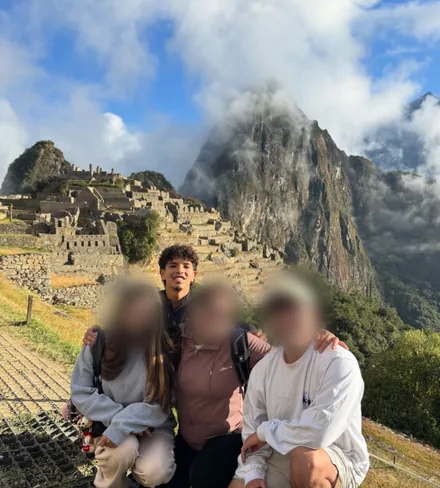
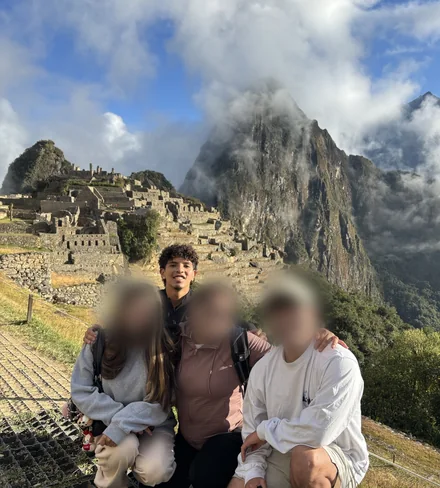
Intro photo and new intro palette

diff --git a/code/static/home.css b/code/static/home.css
@@ -3,7 +3,9 @@
   --font: -apple-system, BlinkMacSystemFont, "SF Pro Display", "SF Pro Text", "Helvetica Neue", Helvetica, Arial, sans-serif;
   --round: ui-rounded, "SF Pro Rounded", -apple-system, "Arial Rounded MT Bold", sans-serif;
   --mono: ui-monospace, "SF Mono", Menlo, Consolas, monospace;
-  --page-bg: #ffffff;
+  --page-bg: #f1f5fc;
+  --navy: #0b1b3a;
+  --cobalt: #1f4fd8;
   --ink: #000000;
   --ink-2: #5f6168;
   --maroon: #630031;
@@ -35,6 +37,12 @@ h1,h2,h3,p{margin:0}
 .topbar nav a:hover{opacity:1}
 
 /* Intro */
+.intro,.finale{--ink:var(--navy);--ink-2:#4b5a7a;color:var(--ink)}
+.intro{position:relative;overflow:hidden}
+.intro::before{content:"";position:absolute;inset:-20%;pointer-events:none;opacity:calc(1 - var(--p,0)*1.5);
+  background:radial-gradient(38% 42% at 78% 62%,rgba(31,79,216,.20),transparent 70%),radial-gradient(34% 38% at 12% 8%,rgba(80,170,255,.22),transparent 70%),radial-gradient(30% 30% at 55% 105%,rgba(255,170,120,.16),transparent 70%);
+  animation:drift 22s ease-in-out infinite alternate}
+@keyframes drift{to{transform:translate3d(3%,-2%,0) scale(1.06)}}
 .intro{min-height:100svh;display:grid;place-items:center;padding:120px max(20px,6vw) 80px}
 .intro-stage{max-width:1100px;width:100%;transform:scale(calc(1 - var(--p,0)*.08));opacity:calc(1 - var(--p,0)*1.4)}
 .intro-title{font-size:clamp(56px,9vw,132px);line-height:.98;letter-spacing:-.055em;font-weight:700}
@@ -42,7 +50,7 @@ h1,h2,h3,p{margin:0}
 .intro-title .ch{display:inline-block;transform:translate3d(0,calc(var(--lift,0)*-1px + var(--p,0)*var(--fy,0)*1px),0) rotate(calc(var(--p,0)*var(--fr,0)*1deg));transition:transform .5s var(--ease);will-change:transform}
 .js .intro-title .ch{animation:letter-in .9s var(--ease) both;animation-delay:calc(var(--i)*28ms + 120ms)}
 @keyframes letter-in{from{opacity:0;transform:translate3d(0,.6em,0) rotate(6deg)}to{opacity:1}}
-.intro-stage{position:relative}
+.intro-stage{position:relative;z-index:1}
 .me{position:absolute;right:0;bottom:44px;margin:0;width:clamp(210px,20vw,290px);padding:10px 10px 0;background:#fff;border-radius:6px;box-shadow:0 24px 50px -18px rgba(0,0,0,.35),0 0 0 1px rgba(0,0,0,.06);transform:rotate(3.5deg);transition:transform .5s var(--ease)}
 .me:hover{transform:rotate(1deg) scale(1.03)}
 .me-photo{position:relative}
@@ -60,8 +68,8 @@ h1,h2,h3,p{margin:0}
 .intro-how{margin-top:44px;max-width:calc(100% - 340px);font-size:15px;color:var(--ink-2);letter-spacing:-.01em}
 .intro-lede{max-width:34ch;margin-top:32px;font-size:clamp(20px,2vw,26px);line-height:1.35;color:var(--ink-2);letter-spacing:-.015em}
 .jump{list-style:none;padding:0;margin:48px 0 0;display:flex;flex-wrap:wrap;gap:12px}
-.jump a{display:inline-flex;align-items:center;gap:10px;padding:12px 18px 12px 14px;border-radius:999px;background:#f2f2f4;text-decoration:none;font-size:16px;font-weight:500;transition:transform .3s var(--ease),background-color .3s}
-.jump a:hover{background:#e7e7ea;transform:translateY(-2px)}
+.jump a{display:inline-flex;align-items:center;gap:10px;padding:12px 18px 12px 14px;border-radius:999px;background:#fff;box-shadow:0 1px 2px rgba(11,27,58,.08),0 0 0 1px rgba(11,27,58,.07);text-decoration:none;font-size:16px;font-weight:500;transition:transform .3s var(--ease),background-color .3s}
+.jump a:hover{background:#fff;box-shadow:0 8px 20px -8px rgba(31,79,216,.45),0 0 0 1.5px var(--cobalt);transform:translateY(-2px)}
 .jump-swatch{width:14px;height:14px;border-radius:50%;background:var(--c)}
 
 /* Chapters: a tall section with a pinned stage */
@@ -80,7 +88,7 @@ h1,h2,h3,p{margin:0}
 .next-btn{position:fixed;right:max(18px,3vw);bottom:24px;z-index:45;width:52px;height:52px;border:0;border-radius:50%;background:var(--ink);color:var(--page-bg);display:grid;place-items:center;cursor:pointer;box-shadow:0 10px 30px -10px rgba(0,0,0,.4);transition:opacity .4s,transform .4s var(--ease),background-color .7s,color .7s}
 .next-btn:hover{transform:translateY(2px)}
 .next-btn.is-hidden{opacity:0;pointer-events:none;transform:translateY(12px)}
-kbd{font:inherit;font-size:.9em;padding:1px 7px;border-radius:6px;background:#f0f0f2;border:1px solid #dcdce0}
+kbd{font:inherit;font-size:.9em;padding:1px 7px;border-radius:6px;background:#fff;border:1px solid #cfd8ea}
 .beat{position:absolute;inset:auto 0 auto 0;top:50%;transform:translateY(calc(-50% + 28px));opacity:0;transition:opacity .55s var(--ease),transform .7s var(--ease);pointer-events:none;max-width:30ch}
 .beat.is-on{opacity:1;transform:translateY(-50%);pointer-events:auto}
 .kicker{font-size:15px;color:var(--ink-2);margin-bottom:14px;letter-spacing:-.01em}
@@ -92,7 +100,7 @@ kbd{font:inherit;font-size:.9em;padding:1px 7px;border-radius:6px;background:#f0
 .btn{display:inline-flex;align-items:center;min-height:46px;padding:0 22px;border-radius:999px;background:var(--ink);color:var(--page-bg);text-decoration:none;font-size:16px;font-weight:600;letter-spacing:-.01em;transition:transform .3s var(--ease),opacity .3s}
 .btn:hover{transform:scale(1.03)}
 .btn.ghost{background:transparent;color:var(--ink);box-shadow:inset 0 0 0 1.5px currentColor}
-.btn.solid{background:#000;color:#fff}
+.btn.solid{background:var(--cobalt);color:#fff}
 
 .device-wrap{position:relative;display:flex;flex-direction:column;align-items:center;justify-content:center;
   transform:translateY(calc((1 - var(--enter,1))*28vh)) scale(calc(.86 + var(--enter,1)*.14));
@@ -237,17 +245,17 @@ kbd{font:inherit;font-size:.9em;padding:1px 7px;border-radius:6px;background:#f0
 @keyframes marquee{to{transform:translateX(-50%)}}
 .marquee span{flex:none}
 .marquee span::after{content:"";display:inline-block;width:.18em;height:.18em;margin-left:.5em;border-radius:50%;background:currentColor;vertical-align:middle;opacity:.25}
-.marquee.alt{color:#9a9ca3}
+.marquee.alt{color:#9aa8c6}
 
 /* Contact */
 .contact{padding:8vh max(20px,6vw) 16vh;text-align:center}
 .contact-title{font-size:clamp(56px,10vw,150px);letter-spacing:-.06em;line-height:.98;font-weight:700}
 .contact-lede{max-width:36ch;margin:28px auto 0;font-size:clamp(19px,1.8vw,24px);color:var(--ink-2);line-height:1.4}
-.contact .btn.ghost{color:#000}
+.contact .btn.ghost{color:var(--navy)}
 .contact-links{display:flex;justify-content:center;gap:28px;margin-top:40px;font-size:16px}
 .contact-links a{text-decoration:none;color:var(--ink-2)}
 .contact-links a:hover{color:var(--ink)}
-.foot{display:flex;justify-content:space-between;padding:22px max(20px,6vw);font-size:13px;color:var(--ink-2);border-top:1px solid #ececf0}
+.foot{display:flex;justify-content:space-between;padding:22px max(20px,6vw);font-size:13px;color:#4b5a7a;border-top:1px solid #dfe6f3}
 
 /* Without JavaScript: stack each chapter's beats so everything reads in order */
 .no-js .chapter{height:auto}
@@ -318,3 +326,4 @@ kbd{font:inherit;font-size:.9em;padding:1px 7px;border-radius:6px;background:#f0
   .marquee span:nth-child(n+7){display:none}
   .marquee.alt span:nth-child(n+9){display:none}
 }
+body:not(.ink-dark) .next-btn{background:var(--navy);color:#fff}

diff --git a/code/templates/home.html b/code/templates/home.html
@@ -4,16 +4,16 @@
 <head>
 <meta charset="utf-8">
 <meta name="viewport" content="width=device-width,initial-scale=1">
-<meta name="theme-color" content="#ffffff">
+<meta name="theme-color" content="#f1f5fc">
 <title>Carlos Zanabria · Interfaces you can scroll through</title>
 <meta name="description" content="Carlos Zanabria builds interfaces. Scroll through HokieWallet, +1 Speed Catch Animals, TopSecret and this site. Computer Science at Virginia Tech, seeking Summer 2027 internships.">
 <meta property="og:title" content="Carlos Zanabria">
 <meta property="og:description" content="Four projects you can scroll through. Computer Science at Virginia Tech.">
 <meta property="og:type" content="website">
 <link rel="icon" href="{{ url_for('static',filename='favicon.svg') }}" type="image/svg+xml">
-<link rel="stylesheet" href="{{ url_for('static',filename='home.css') }}?v=4">
+<link rel="stylesheet" href="{{ url_for('static',filename='home.css') }}?v=5">
 <script>document.documentElement.classList.replace('no-js','js')</script>
-<script defer src="{{ url_for('static',filename='story.js') }}?v=4"></script>
+<script defer src="{{ url_for('static',filename='story.js') }}?v=5"></script>
 </head>
 <body class="home">
 <a class="skip" href="#main">Skip to content</a>
@@ -29,7 +29,7 @@
 
 <main id="main">
 
-  <section class="intro" data-snap data-chapter="intro" data-bg="#ffffff" data-ink="light" aria-labelledby="intro-title">
+  <section class="intro" data-snap data-chapter="intro" data-bg="#f1f5fc" data-ink="light" aria-labelledby="intro-title">
     <div class="intro-stage">
       <h1 id="intro-title" class="intro-title" data-split aria-label="I build interfaces you can feel.">I build interfaces <br>you can feel.</h1>
       <p class="intro-lede">I'm Carlos, a computer science student at Virginia Tech. Watch four things I've built play out, or jump straight to one.</p>
@@ -304,13 +304,13 @@
   </section>
 
   <div class="finale" data-snap>
-  <section class="tools" aria-labelledby="tools-title" data-bg="#ffffff" data-ink="light">
+  <section class="tools" aria-labelledby="tools-title" data-bg="#f1f5fc" data-ink="light">
     <h2 id="tools-title" class="tools-title">What I build with</h2>
     <div class="marquee" data-marquee="1"><span>Python</span><span>Java</span><span>TypeScript</span><span>JavaScript</span><span>R</span><span>SQL</span><span>Python</span><span>Java</span><span>TypeScript</span><span>JavaScript</span><span>R</span><span>SQL</span></div>
     <div class="marquee alt" data-marquee="-1"><span>React</span><span>Next.js</span><span>Node.js</span><span>Flask</span><span>SQLite</span><span>Docker</span><span>Git</span><span>HTML &amp; CSS</span><span>React</span><span>Next.js</span><span>Node.js</span><span>Flask</span><span>SQLite</span><span>Docker</span><span>Git</span><span>HTML &amp; CSS</span></div>
   </section>
 
-  <section id="contact" class="contact" aria-labelledby="contact-title" data-bg="#ffffff" data-ink="light">
+  <section id="contact" class="contact" aria-labelledby="contact-title" data-bg="#f1f5fc" data-ink="light">
     <h2 id="contact-title" class="contact-title">Let's build something.</h2>
     <p class="contact-lede">I'm looking for a Summer 2027 software or data internship in Northern Virginia or remote.</p>
     <p class="actions center">
